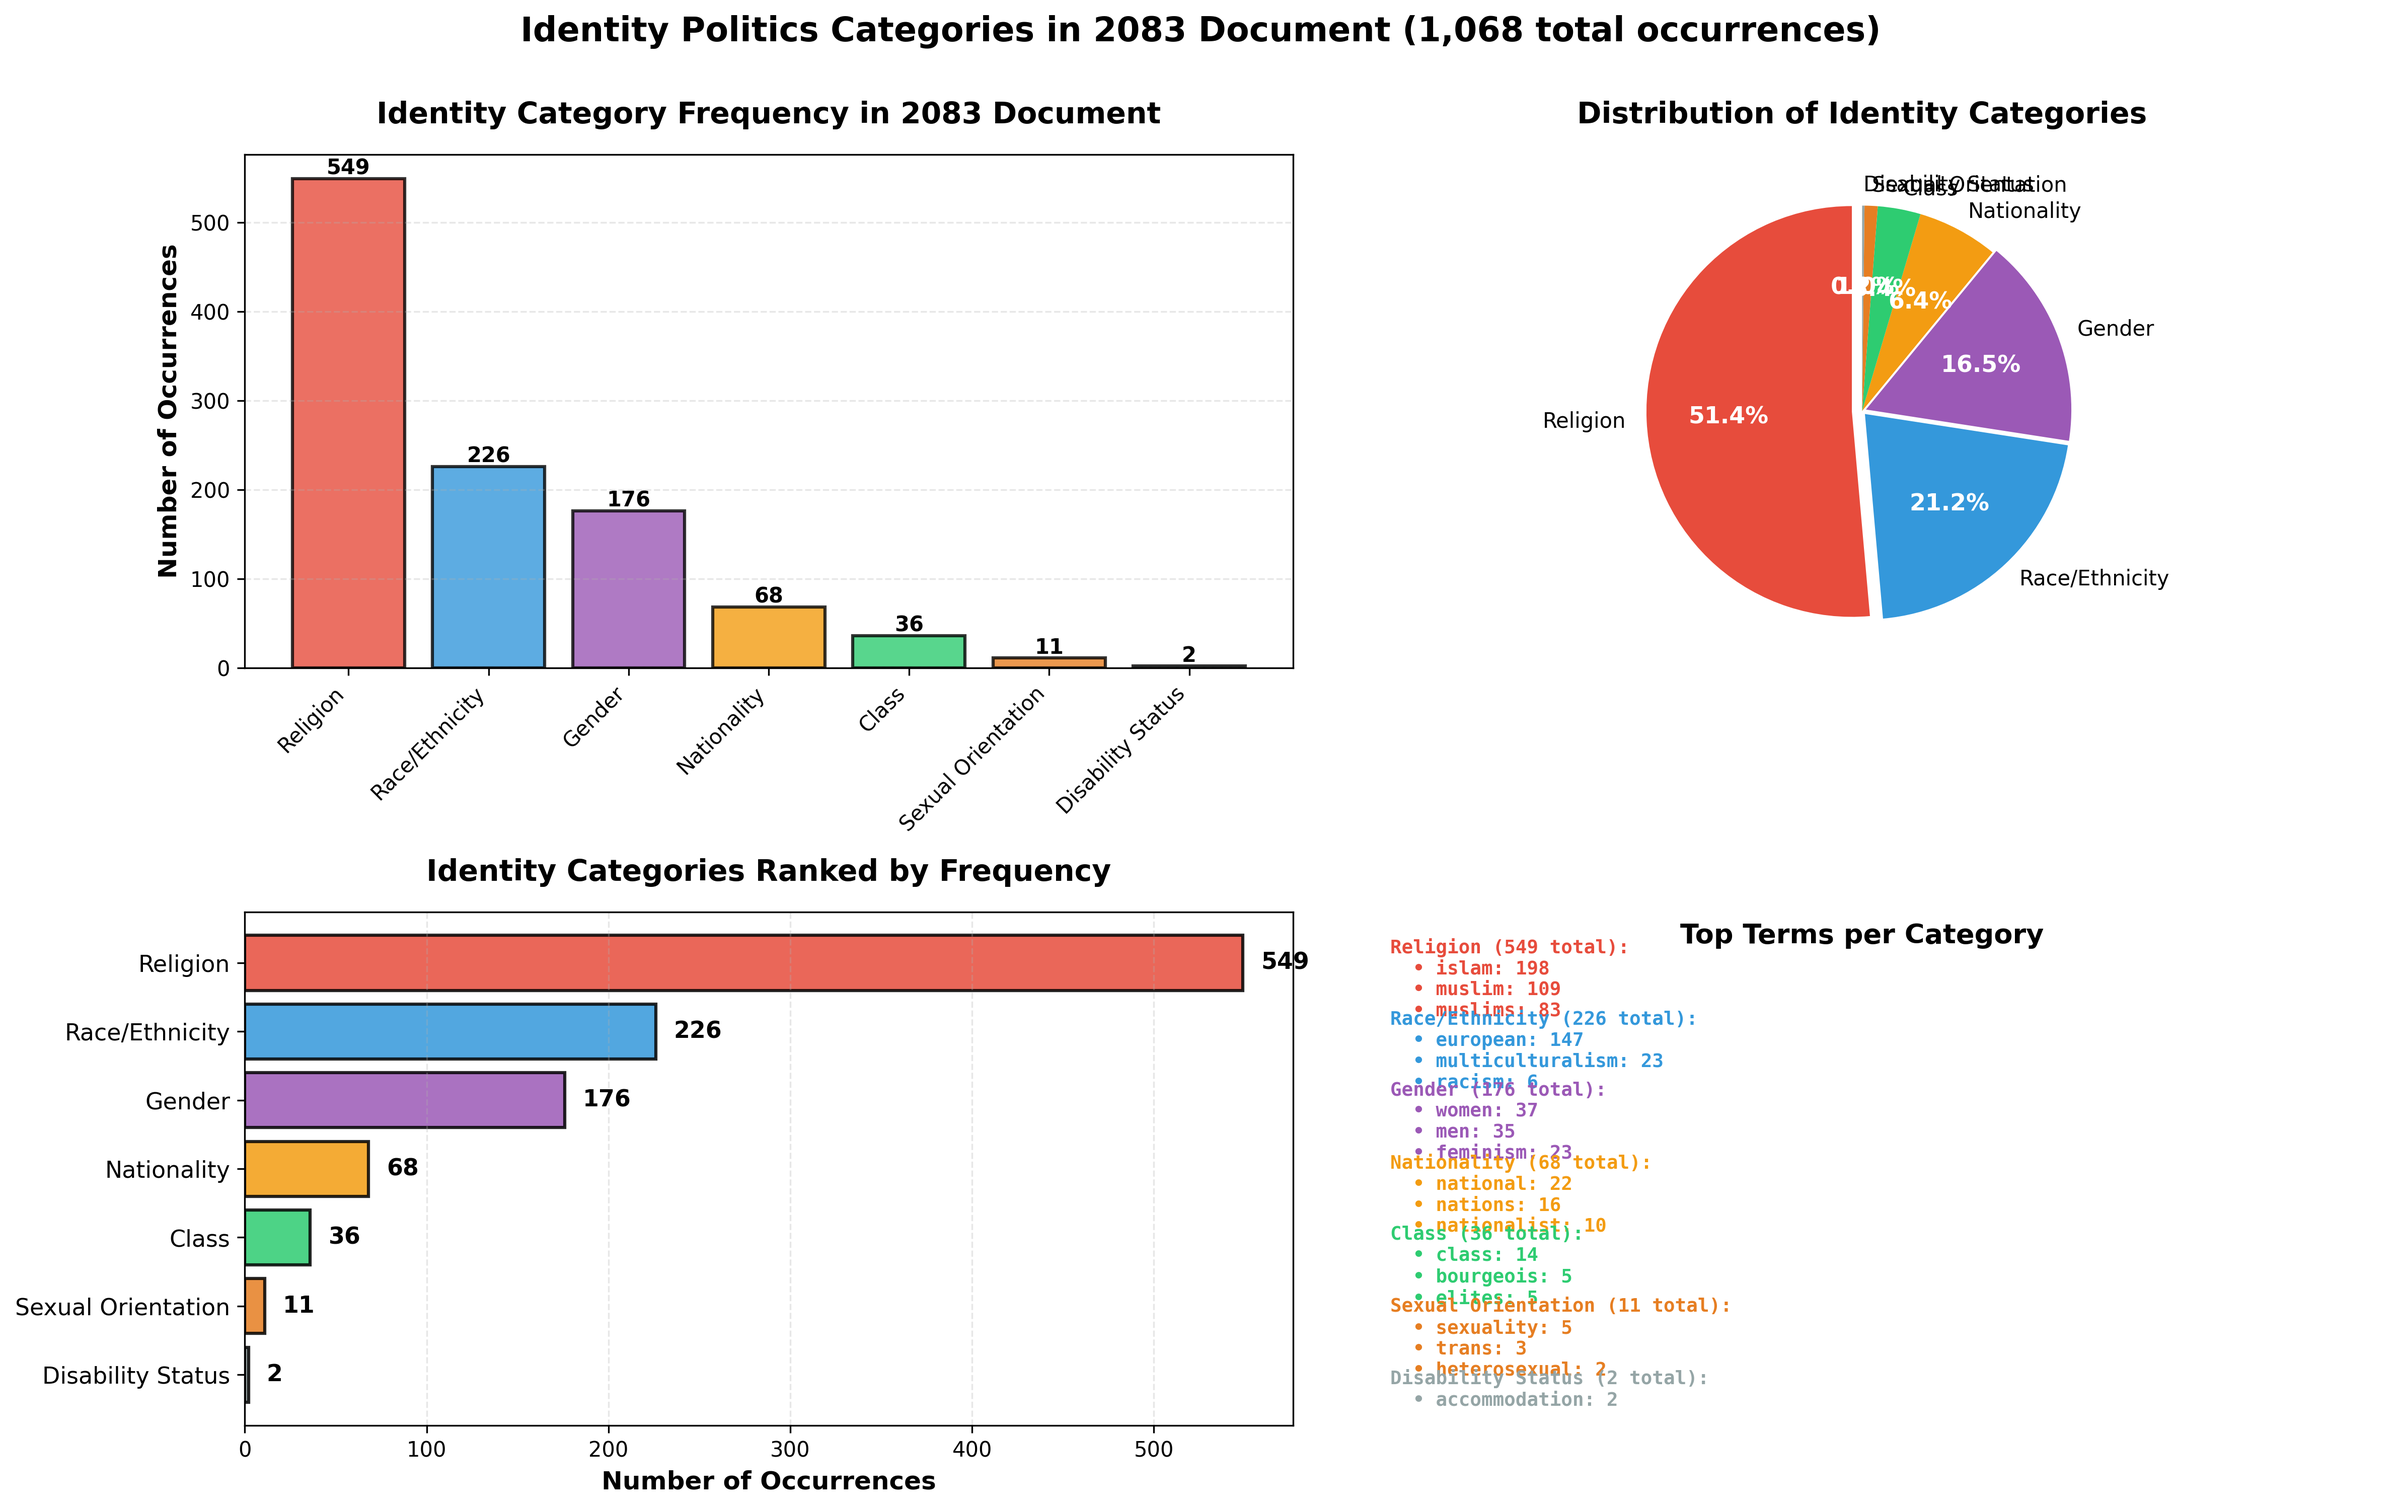
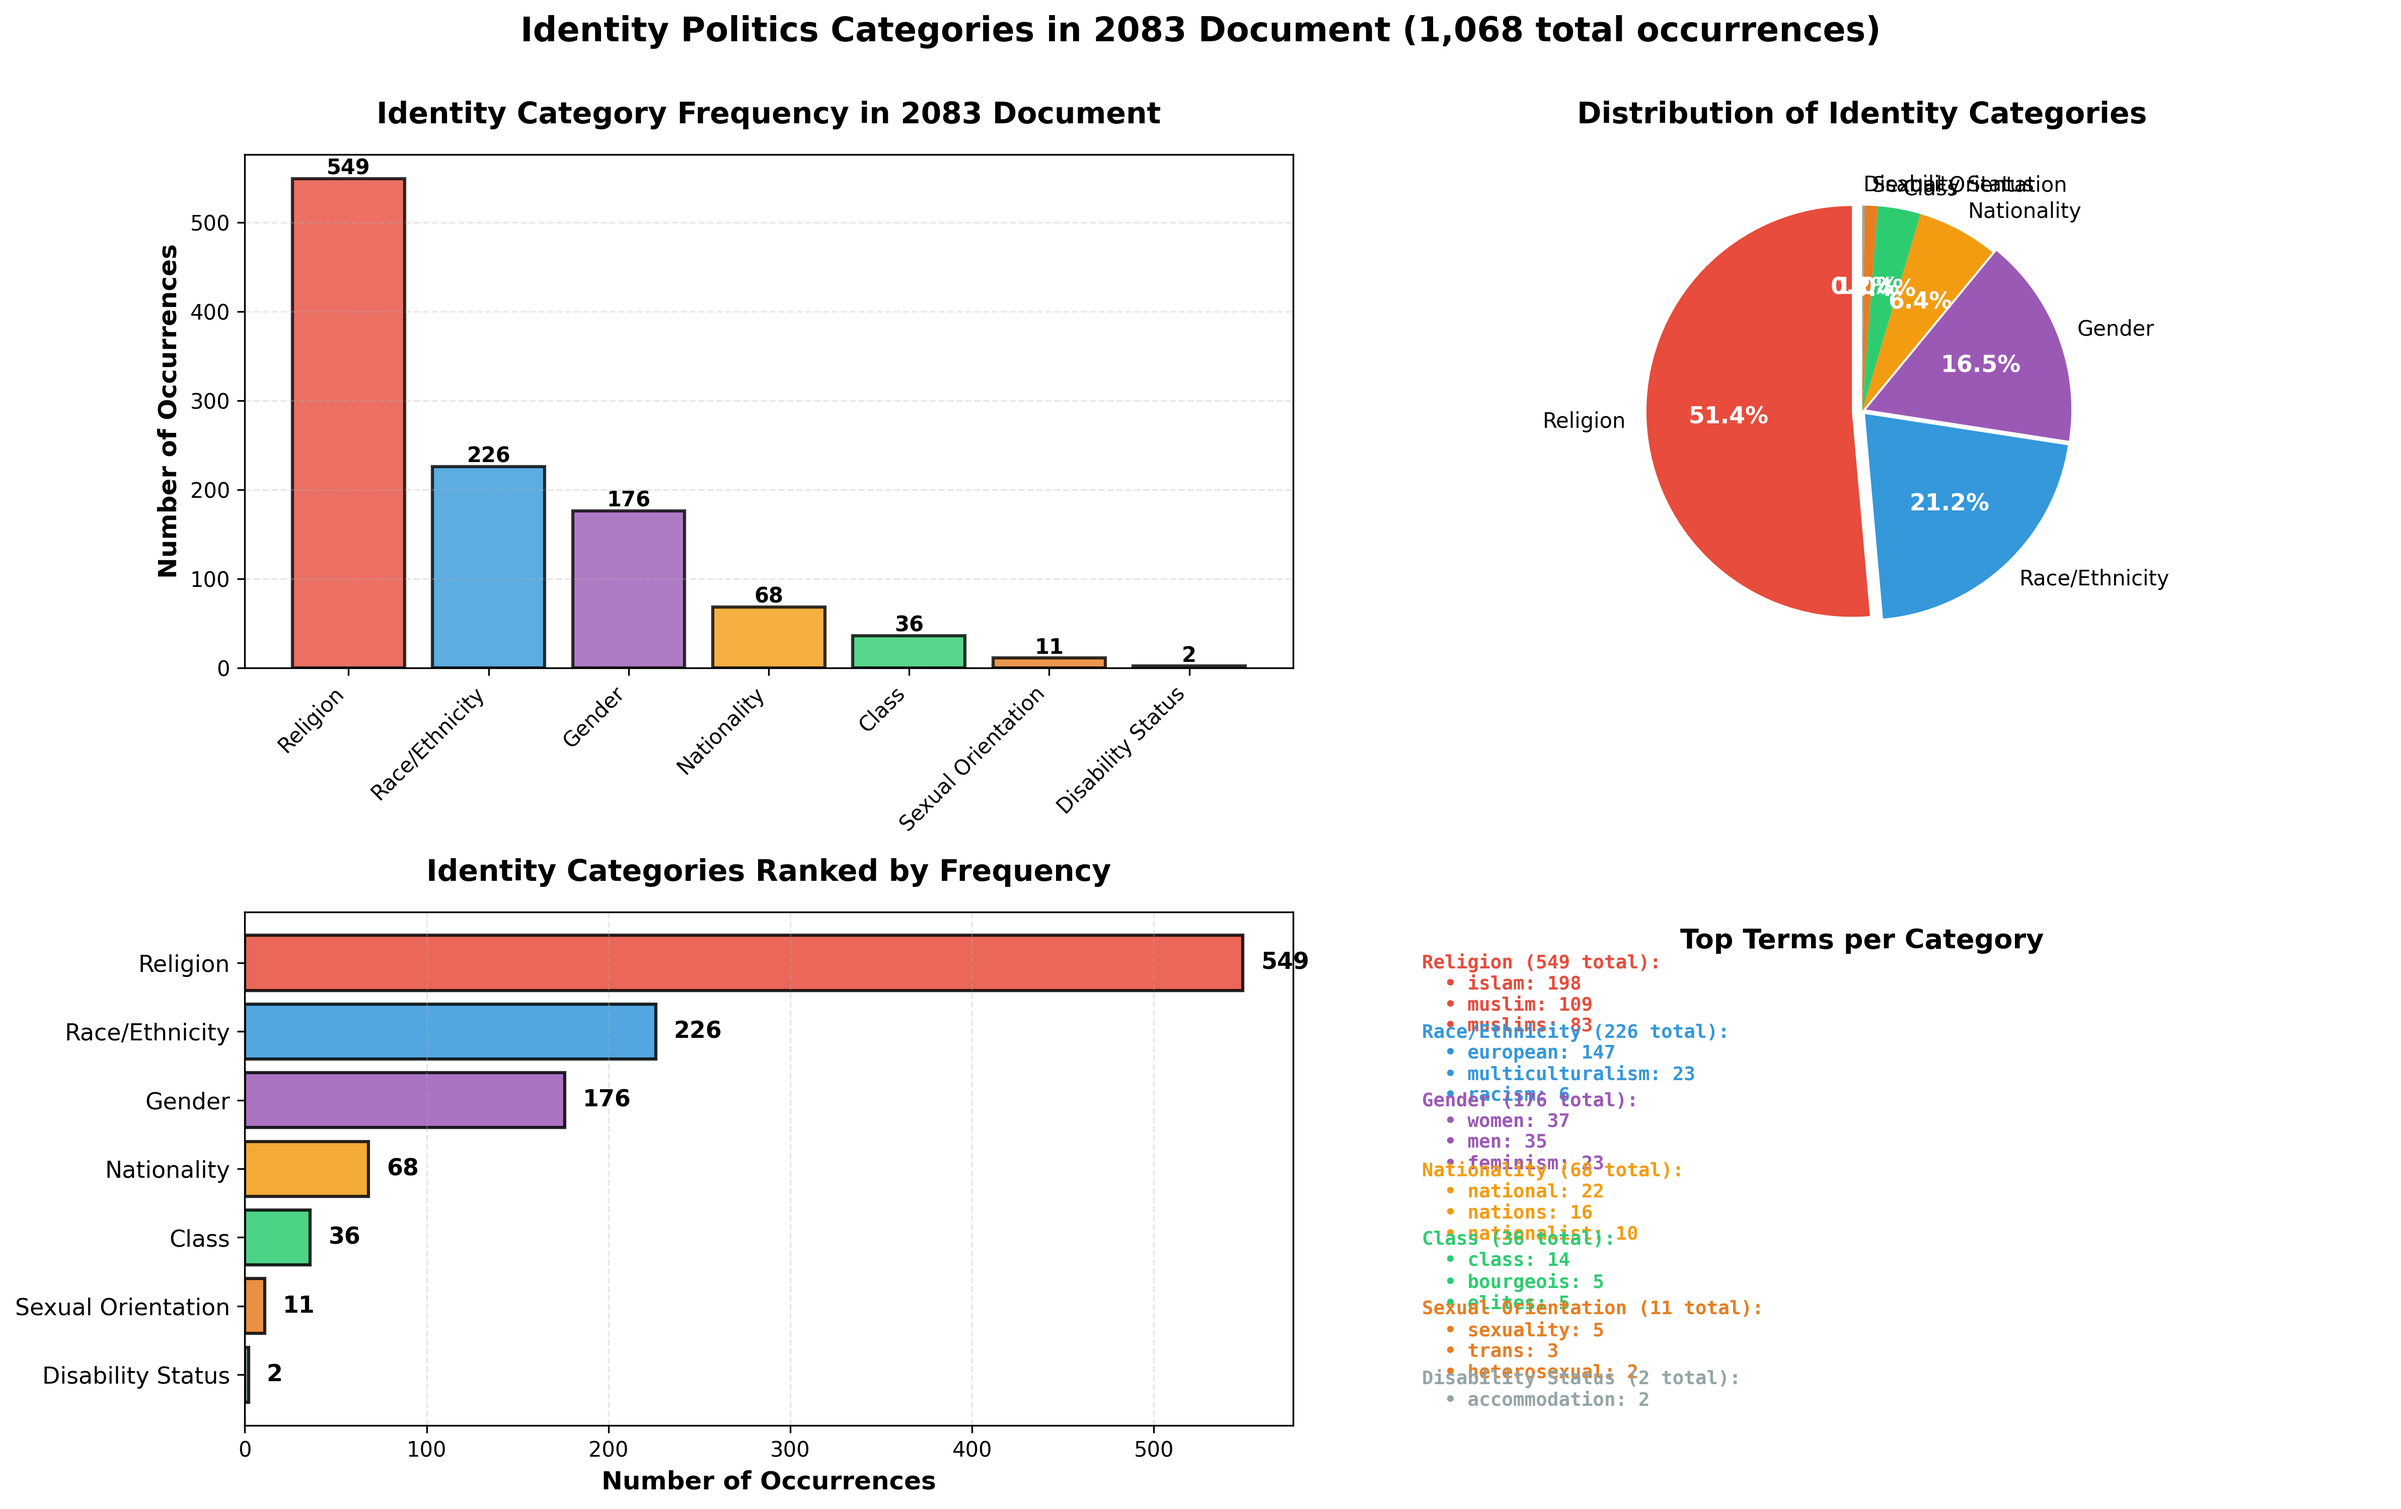
Improve text padding in 4th quadrant of identity categories visualization

Changed region(s): [[0.5935, 0.6204, 0.7184, 0.9306], [0.7497, 0.5894, 0.8434, 0.6514], [0.7184, 0.5894, 0.7497, 0.6204]]

diff --git a/visualize_identity_categories.py b/visualize_identity_categories.py
@@ -79,7 +79,7 @@ top_terms = {
 }
 
 title_text = "Top Terms per Category\n" + "="*50 + "\n\n"
-y_offset = 0.95
+y_offset = 0.92
 
 for i, cat in enumerate(categories):
     color = colors[i]
@@ -92,14 +92,14 @@ for i, cat in enumerate(categories):
     terms_text = "\n".join(terms_list)
     full_text = cat_text + terms_text
     
-    ax4.text(0.05, y_offset, full_text, fontsize=9, verticalalignment='top',
+    ax4.text(0.08, y_offset, full_text, fontsize=9, verticalalignment='top',
              fontfamily='monospace', color=color, fontweight='bold')
     
-    y_offset -= 0.14
+    y_offset -= 0.135
 
 ax4.set_xlim(0, 1)
 ax4.set_ylim(0, 1)
-ax4.text(0.5, 0.98, 'Top Terms per Category', fontsize=13, fontweight='bold',
+ax4.text(0.5, 0.97, 'Top Terms per Category', fontsize=13, fontweight='bold',
          ha='center', va='top')
 
 plt.suptitle('Identity Politics Categories in 2083 Document (1,068 total occurrences)', 
